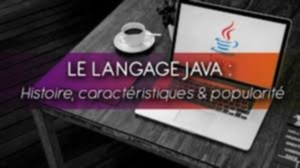
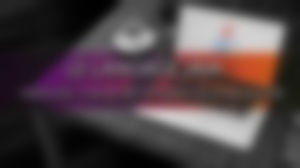
Story 7

diff --git a/src/main/java/com/alexandre/picturechanger/App.java b/src/main/java/com/alexandre/picturechanger/App.java
@@ -5,12 +5,14 @@ package com.alexandre.picturechanger;
         import org.bytedeco.opencv.opencv_core.Mat;
 
         import java.io.File;
+        import java.io.IOException;
 
 public class App {
 
     public static void main(String[] args) {
-        FilterBlur fb = new FilterBlur();
 
+
+        FilterBlur fb = new FilterBlur();
 
             File inputDir = new File("imgs");
             File[] files = inputDir.listFiles();
@@ -21,17 +23,16 @@ public class App {
                 Mat image = opencv_imgcodecs.imread(f.getAbsolutePath());
 
                 try{
-                    image = fb.filterBlur(image);
-                }catch (FiltrerExecption e){
+                    image = fb.filterBlur(image, f.getName());
+                }catch (FiltrerExecption | IOException e){
                   System.out.println(e.getMessage());
                 }
 
                 File outputDir = new File("output");
                 File outputFile = new File(outputDir, f.getName());
                 opencv_imgcodecs.imwrite(outputFile.getAbsolutePath(), image);
-
-                System.out.println("Les images sont bien modifiées");
             }
 
     }
+
 }

diff --git a/src/main/java/com/alexandre/picturechanger/filters/FilterBlur.java b/src/main/java/com/alexandre/picturechanger/filters/FilterBlur.java
@@ -6,18 +6,24 @@ import org.bytedeco.opencv.opencv_core.Size;
 import org.opencv.core.CvType;
 import org.opencv.imgproc.Imgproc;
 
+import java.io.FileWriter;
+import java.io.IOException;
+
 import static org.bytedeco.opencv.global.opencv_imgproc.GaussianBlur;
 import static org.bytedeco.opencv.global.opencv_imgproc.cvtColor;
 
 public class FilterBlur {
-    public Mat filterBlur(Mat image) throws FiltrerExecption {
+    public Mat filterBlur(Mat image, String name) throws FiltrerExecption, IOException {
 
-        int size = 3;
+        int size = 33;
         if(size %2 == 0){
-            throw new FiltrerExecption("Size must be odd");
+            throw new FiltrerExecption(" ! SIZE MUST BE ODD !");
         }
         Mat result = image.clone();
         GaussianBlur(image, result, new Size(size, size), 0);
+        FileWriter fw = new FileWriter("imagefilter.log", true);
+        fw.write("File = " + name + "    Filter = Blur \n");
+        fw.close();
 
         return result;
     }

diff --git a/src/main/java/com/alexandre/picturechanger/filters/FilterDilate.java b/src/main/java/com/alexandre/picturechanger/filters/FilterDilate.java
@@ -4,16 +4,22 @@ import org.bytedeco.opencv.opencv_core.Mat;
 import org.bytedeco.opencv.opencv_core.Size;
 import org.opencv.imgproc.Imgproc;
 
+import java.io.FileWriter;
+import java.io.IOException;
+
 import static org.bytedeco.opencv.global.opencv_imgproc.dilate;
 import static org.bytedeco.opencv.global.opencv_imgproc.getStructuringElement;
 
 public class FilterDilate {
 
-    public Mat filterDilate(Mat image) {
+    public Mat filterDilate(Mat image, String name) throws IOException {
         int size = 8;
         Mat result = image.clone();
         Mat element = getStructuringElement(Imgproc.MORPH_RECT, new Size(2 * size + 1, 2 * size + 1));
         dilate(image, result, element);
+        FileWriter fw = new FileWriter("imagefilter.log", true);
+        fw.write("File = " + name + "    Filter = Dilate\n");
+        fw.close();
         return result;
     }
 

diff --git a/src/main/java/com/alexandre/picturechanger/filters/FilterGrayscale.java b/src/main/java/com/alexandre/picturechanger/filters/FilterGrayscale.java
@@ -4,13 +4,19 @@ import org.bytedeco.opencv.opencv_core.Mat;
 import org.opencv.core.CvType;
 import org.opencv.imgproc.Imgproc;
 
+import java.io.FileWriter;
+import java.io.IOException;
+
 import static org.bytedeco.opencv.global.opencv_imgproc.cvtColor;
 
 public class FilterGrayscale {
 
-    public Mat filterGrayscale(Mat image) {
+    public Mat filterGrayscale(Mat image, String name) throws IOException {
         Mat result = new Mat(image.rows(), image.cols(), CvType.CV_8UC3);
         cvtColor(image, result, Imgproc.COLOR_RGB2GRAY);
+        FileWriter fw = new FileWriter("imagefilter.log", true);
+        fw.write("File = " + name + "    Filter = Grayscale\n");
+        fw.close();
         return result;
     }
 
